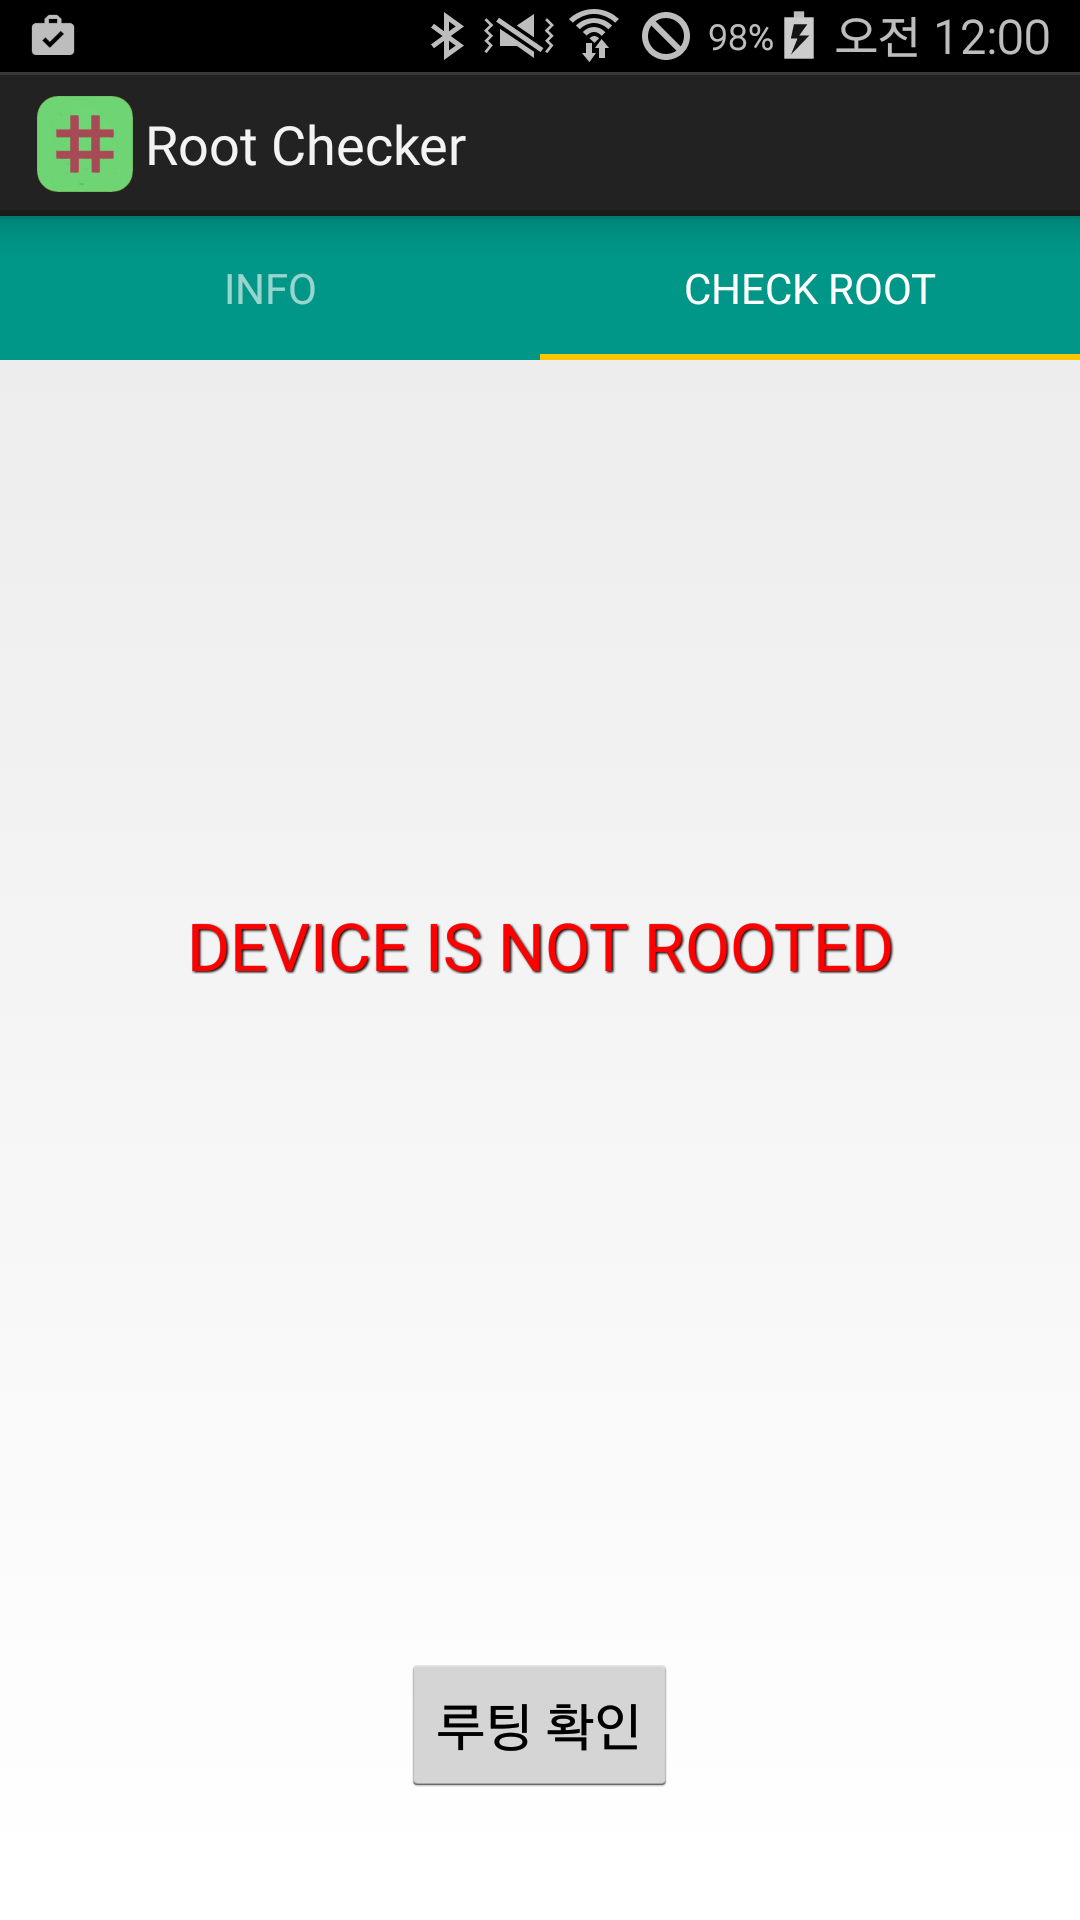
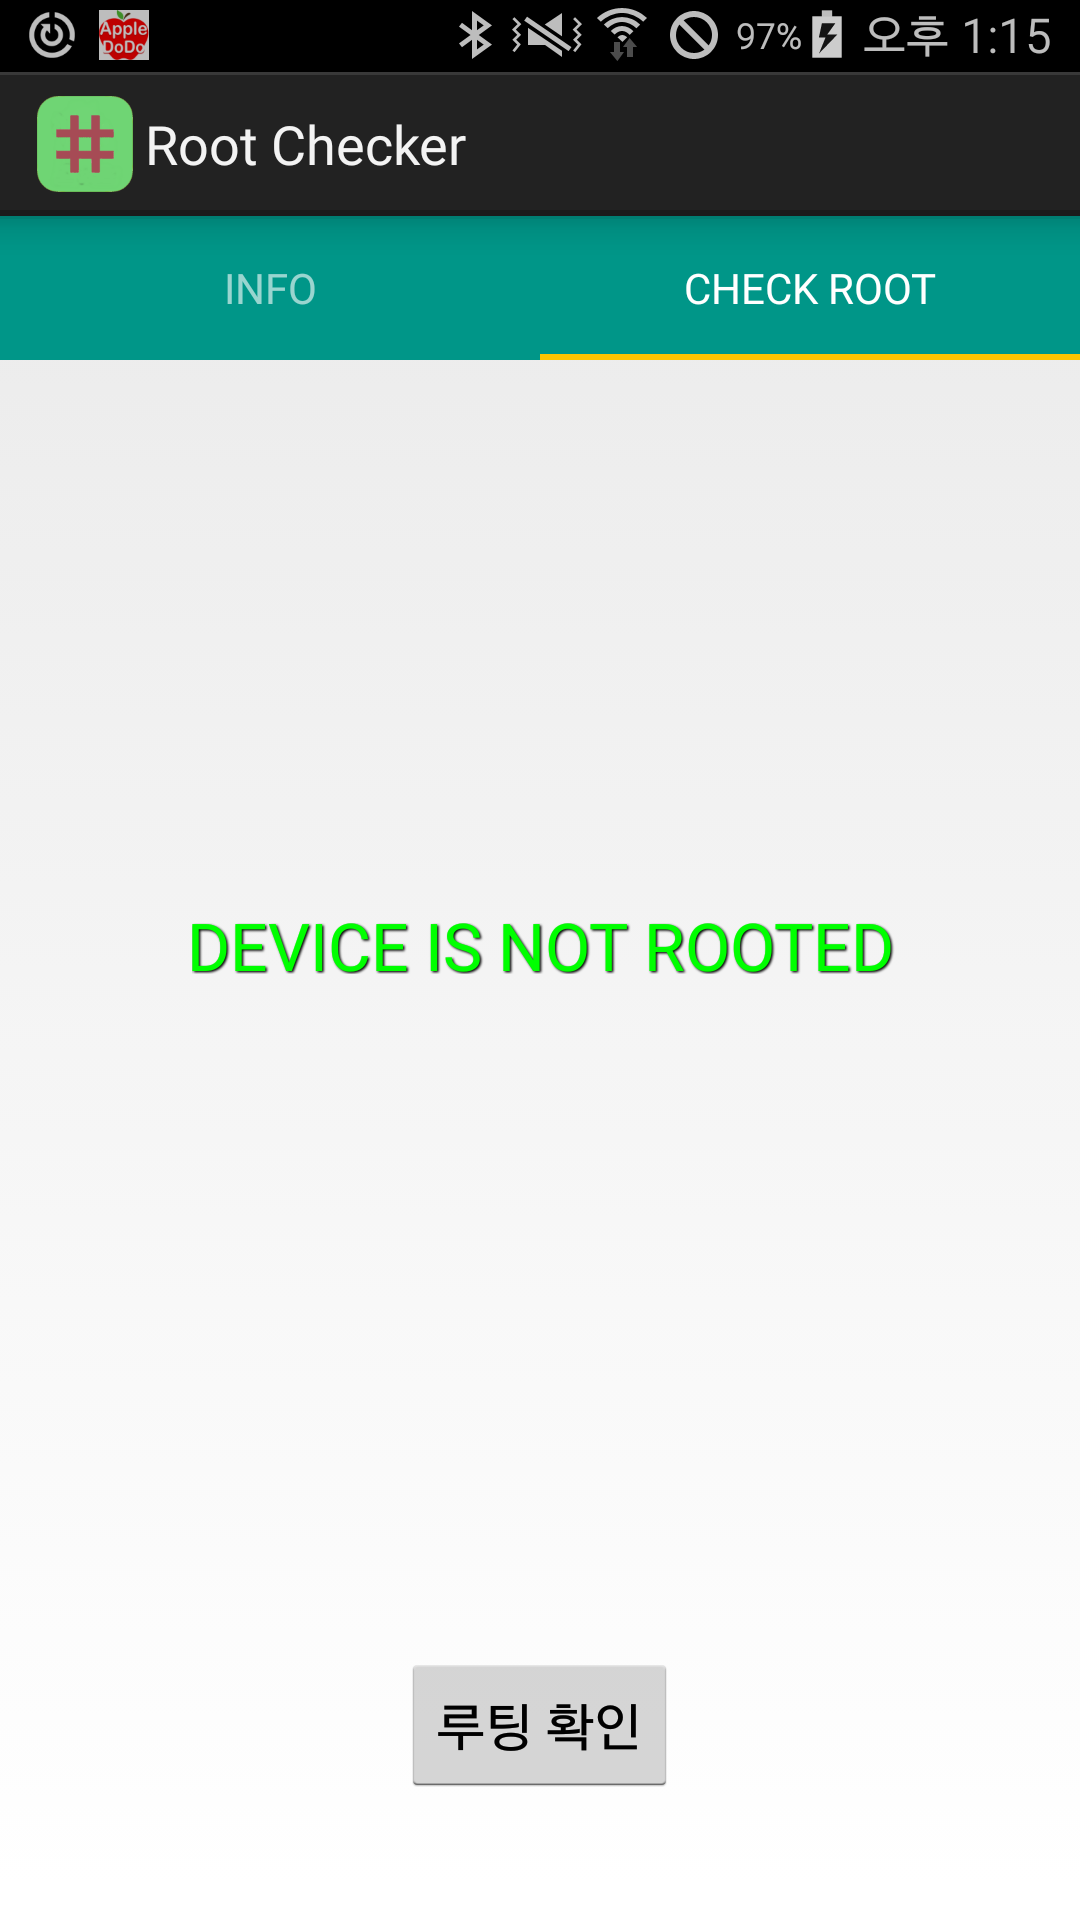
no message

diff --git a/AndroidRootChecker/src/com/purehero/root/checker/CheckRootFragment.java b/AndroidRootChecker/src/com/purehero/root/checker/CheckRootFragment.java
@@ -1,5 +1,6 @@
 package com.purehero.root.checker;
 
+import android.graphics.Color;
 import android.os.Bundle;
 import android.os.Handler;
 import android.support.v4.app.Fragment;
@@ -26,9 +27,7 @@ public class CheckRootFragment extends Fragment implements OnClickListener {
 	
 		if( layout != null ) {
 			textResultCheckRoot = ( TextView ) layout.findViewById( R.id.textResultCheckRoot );
-			if( textResultCheckRoot != null ) {
-				textResultCheckRoot.setText( AndroidDeviceInfo.isRooted() ? "Device is rooted" : "Device is not rooted");
-			}
+			updateRootCheckMessage();
 			
 			Button btnCheckRoot = ( Button ) layout.findViewById( R.id.btnCheckRoot );
 			if( btnCheckRoot != null ) {
@@ -38,6 +37,19 @@ public class CheckRootFragment extends Fragment implements OnClickListener {
 		return layout;	
 	}
 	
+	private void updateRootCheckMessage() {
+		if( textResultCheckRoot == null ) return;
+		
+		boolean isRooted = AndroidDeviceInfo.isRooted();
+		if( isRooted ) {
+			textResultCheckRoot.setTextColor( Color.RED );
+			textResultCheckRoot.setText( "Device is rooted" );
+		} else {
+			textResultCheckRoot.setTextColor( Color.GREEN );
+			textResultCheckRoot.setText( "Device is not rooted" );
+		}
+	}
+	
 	private int check_count = 0;
 	
 	@Override
@@ -45,6 +57,7 @@ public class CheckRootFragment extends Fragment implements OnClickListener {
 		switch( view.getId()) {
 		case R.id.btnCheckRoot : 
 			if( textResultCheckRoot != null ) {
+				textResultCheckRoot.setTextColor( Color.BLUE );
 				textResultCheckRoot.setText( "Checking root" );
 				check_count = 0;
 				
@@ -62,13 +75,14 @@ public class CheckRootFragment extends Fragment implements OnClickListener {
 				context.runOnUiThread( new Runnable(){
 					@Override
 					public void run() {
-						textResultCheckRoot.setText( AndroidDeviceInfo.isRooted() ? "Device is rooted" : "Device is not rooted");
+						updateRootCheckMessage();
 					}});
 				
 			} else {
 				context.runOnUiThread( new Runnable(){
 					@Override
 					public void run() {
+						textResultCheckRoot.setTextColor( Color.BLUE );
 						textResultCheckRoot.setText( textResultCheckRoot.getText() + "." );
 						check_count++;
 						
